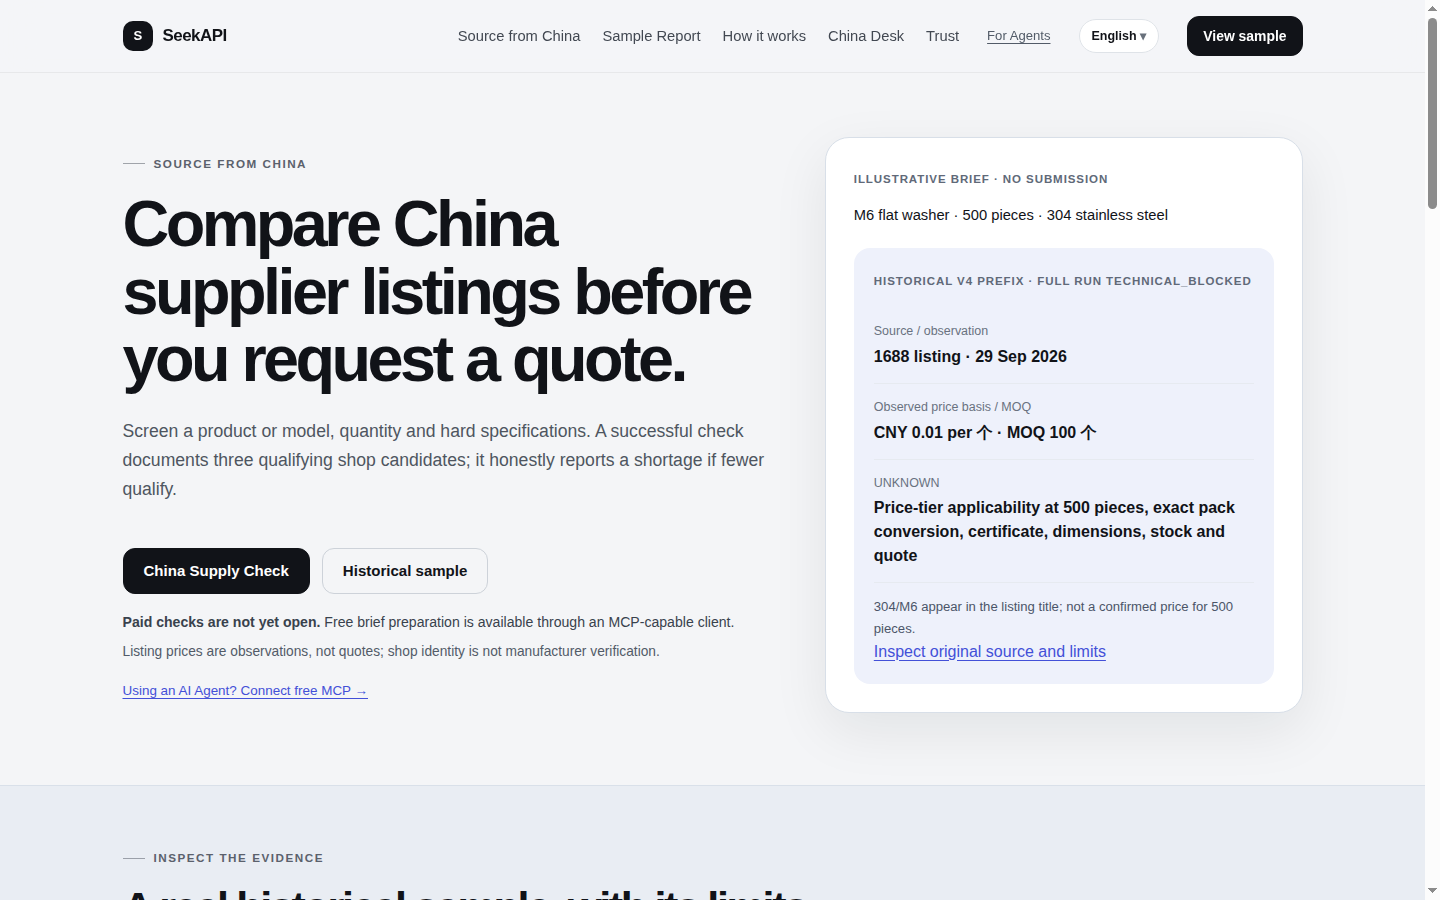
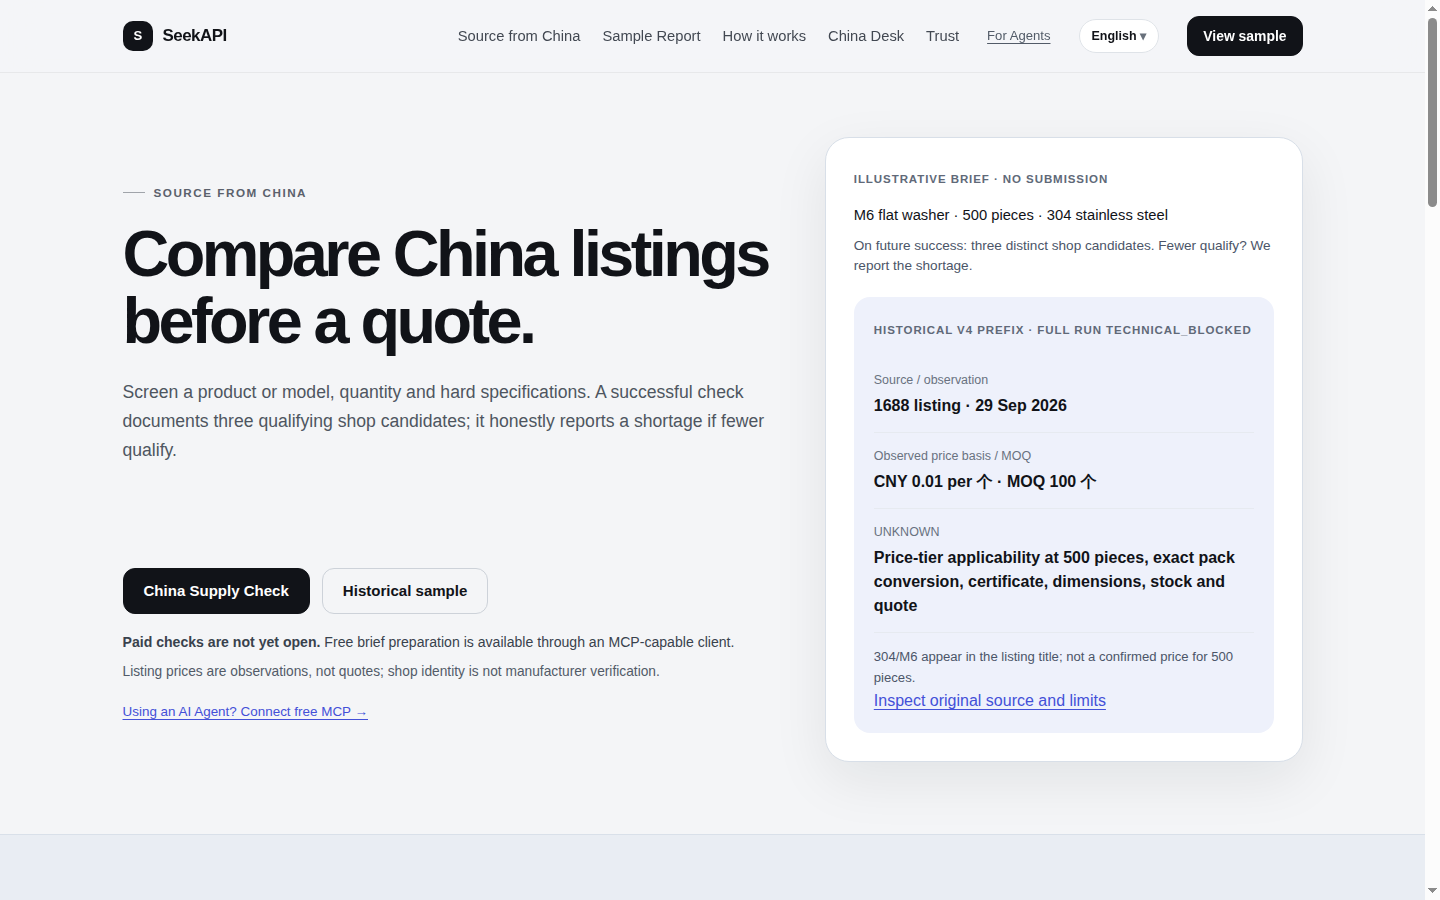
Restore candidate C success and shortage explanation in the first screen

diff --git a/app/growth.css b/app/growth.css
@@ -6,3 +6,5 @@
 @media(max-width:700px){.growth-variant-b,.growth-variant-c{padding-top:24px}.growth-variant-b .growth-hero-grid,.growth-variant-c .growth-hero-grid{row-gap:12px}.growth-variant-b h1,.growth-variant-c h1{font-size:2.05rem;line-height:1.08}.growth-variant-b .growth-lead,.growth-variant-c .growth-lead{display:none}.growth-variant-b .eyebrow,.growth-variant-c .eyebrow{margin-bottom:10px}.growth-variant-b .growth-brief,.growth-variant-c .growth-brief{padding:14px}.growth-variant-b .growth-inputs,.growth-variant-c .growth-inputs{margin-top:6px}.growth-variant-b .growth-inputs>div,.growth-variant-c .growth-inputs>div{padding:5px 0}.growth-variant-b .growth-inputs dt,.growth-variant-c .growth-inputs dt{font-size:.7rem}.growth-variant-b .growth-inputs dd,.growth-variant-c .growth-inputs dd{font-size:.85rem;margin-top:2px;line-height:1.4}.growth-variant-b .growth-result,.growth-variant-c .growth-result{padding:12px;margin-top:10px}.growth-variant-b .growth-result strong{font-size:1.1rem;margin-top:5px}.growth-variant-b .growth-result p,.growth-variant-c .growth-result p{font-size:.8rem;line-height:1.45;margin:7px 0}.growth-variant-b .growth-result .growth-small,.growth-variant-c .growth-result .growth-small{font-size:.75rem}.growth-variant-b .growth-label,.growth-variant-c .growth-label{font-size:.65rem;letter-spacing:.04em}.growth-variant-c .growth-example-request{font-size:.82rem;margin-top:6px}.growth-variant-c .growth-result .text-link{font-size:.78rem}.growth-variant-b .growth-availability,.growth-variant-c .growth-availability{margin-top:10px}.growth-variant-b .growth-limits,.growth-variant-c .growth-limits{margin-bottom:10px}.growth-variant-b .growth-agent-link,.growth-variant-c .growth-agent-link{font-size:.78rem}}
 
 @media(max-width:700px){.growth-variant-c{padding-top:12px}.growth-variant-c .growth-result{margin-top:6px}.growth-variant-c .growth-result p{margin:5px 0}}
+
+.growth-outcome{font-size:.85rem;line-height:1.45;margin:10px 0 0;color:#4b5568}@media(max-width:700px){.growth-variant-c h1{font-size:1.95rem}.growth-variant-c .growth-outcome{font-size:.75rem;line-height:1.4;margin:6px 0 0}}

diff --git a/components/growth-home.tsx b/components/growth-home.tsx
@@ -12,7 +12,7 @@ const variants = {
     lead: 'Start with a product or model, quantity and must-have specifications. On a successful future check: three distinct B2B shop candidates, price basis, MOQ/spec fit, source links, exclusions and UNKNOWNs.',
   },
   c: {
-    heading: 'Compare China supplier listings before you request a quote.',
+    heading: 'Compare China listings before a quote.',
     lead: 'Screen a product or model, quantity and hard specifications. A successful check documents three qualifying shop candidates; it honestly reports a shortage if fewer qualify.',
   },
 } satisfies Record<HomepageVariant, { heading: string; lead: string }>;
@@ -24,7 +24,7 @@ function BriefIllustration({ variant }: { variant: HomepageVariant }) {
       <div><dt>Product / model</dt><dd>M6 flat washer</dd></div>
       <div><dt>Quantity + unit</dt><dd>500 pieces</dd></div>
       <div><dt>Must-have specification</dt><dd>304 stainless steel</dd></div>
-    </dl> : <p className="growth-example-request">M6 flat washer · 500 pieces · 304 stainless steel</p>}
+    </dl> : <><p className="growth-example-request">M6 flat washer · 500 pieces · 304 stainless steel</p><p className="growth-outcome">On future success: three distinct shop candidates. Fewer qualify? We report the shortage.</p></>}
     {variant === 'c' ? <div className="growth-result">
       <span className="growth-label">Historical V4 prefix · full run TECHNICAL_BLOCKED</span>
       <dl className="growth-inputs">

diff --git a/app/(english)/page.tsx b/app/(english)/page.tsx
@@ -7,8 +7,8 @@ export const metadata = pageMetadata(
   '/',
 );
 
-// Candidate A is provisional in this implementation PR. The frozen ten-buyer
-// study must select a variant before this branch is released to production.
+// Candidate A is provisional. Owner preview acceptance must select a variant
+// before release (governance decision 5909261935 supersedes the buyer study).
 export default function HomePage() {
   return <GrowthHome variant="a" />;
 }

diff --git a/scripts/verify_growth_browser.py b/scripts/verify_growth_browser.py
@@ -1,5 +1,5 @@
 #!/usr/bin/env python3
-"""Verify actual first-screen candidate content; never substitutes for a buyer study."""
+"""Verify actual first-screen candidate content; never substitutes for owner acceptance."""
 import argparse
 import json
 import subprocess
@@ -32,6 +32,7 @@ expression = """JSON.stringify({
  briefFields:Array.from(document.querySelectorAll('.growth-inputs>div')).map(row=>({
   label:row.querySelector('dt').innerText,bottom:row.getBoundingClientRect().bottom})),
  resultText:document.querySelector('.growth-result').innerText,
+ outcome:(()=>{const e=document.querySelector('.growth-outcome');if(!e)return null;const r=e.getBoundingClientRect();return {text:e.innerText,visible:r.width>0&&r.height>0&&getComputedStyle(e).visibility!=='hidden',top:r.top,bottom:r.bottom}})(),
  paidNoteBottom:document.querySelector('.growth-availability').getBoundingClientRect().bottom,
  limitsBottom:document.querySelector('.growth-limits').getBoundingClientRect().bottom,
  errorOverlay:!!document.querySelector('[data-nextjs-dialog]')
@@ -56,6 +57,8 @@ try:
                 assert [field["label"] for field in data["briefFields"]] == ["Product / model", "Quantity + unit", "Must-have specification"], data
                 assert "Three distinct shop candidates" in data["resultText"] and "shortage" in data["resultText"], data
             if variant == "c":
+                assert data["outcome"]["visible"] and 0 <= data["outcome"]["top"] < data["outcome"]["bottom"] <= height, data
+                assert "three distinct shop candidates" in data["outcome"]["text"] and "shortage" in data["outcome"]["text"], data
                 for term in ["TECHNICAL_BLOCKED", "29 Sep 2026", "CNY 0.01 per 个", "MOQ 100 个", "UNKNOWN", "Price-tier applicability at 500 pieces", "exact pack conversion", "not a confirmed price for 500 pieces"]:
                     assert term.lower() in data["resultText"].lower(), (term, data)
             data.update(variant=variant, viewport=label, page_errors=run("errors"))
@@ -69,7 +72,8 @@ finally:
     "records": records,
     "mobile_menu_navigation": "Separately verified: keyboard menu activation and Source from China destination",
     "skip_link": "Separately verified: Tab focuses skip link, Enter reaches #main-content",
-    "buyer_study": "NOT_RUN; browser geometry is not buyer comprehension",
-    "review_repair": "5364732399: B/C content visible in first screen; C price-tier and pack uncertainty adjacent",
+    "buyer_study": "CANCELED_BY_OWNER; governance decision 5909261935",
+    "review_repair": "5364732399: B/C content visible in first screen; C price-tier and pack uncertainty adjacent; stopped re-review C success/shortage regression repaired",
+    "owner_acceptance": "PENDING; browser geometry is not owner candidate acceptance",
 }, indent=2) + "\n")
-print(json.dumps({"candidate_viewport_checks": len(records), "errors": [], "buyer_study": "NOT_RUN"}))
+print(json.dumps({"candidate_viewport_checks": len(records), "errors": [], "owner_acceptance": "PENDING"}))

diff --git a/scripts/verify_website_growth.py b/scripts/verify_website_growth.py
@@ -118,7 +118,7 @@ def verify(base, production=False):
         urls = [path(node.text) for node in ET.fromstring(sitemap).findall(".//{*}loc")]
         check(set(urls) == set(baseline["routes"]), f"sitemap: mismatch {len(urls)} URLs")
     check("https://api.seekapi.ai/mcp" in cache["/for-agents"].text, "Agent: endpoint missing")
-    return {"mode": "production-equivalent" if production else "preview", "base_url": base, "routes_verified": len(records), "locale_routes": sum(r["lang"] != "en" for r in records), "errors": errors, "records": records, "live_acceptance": False, "human_study": "NOT_RUN", "search_benchmark": "NOT_RUN"}
+    return {"mode": "production-equivalent" if production else "preview", "base_url": base, "routes_verified": len(records), "locale_routes": sum(r["lang"] != "en" for r in records), "errors": errors, "records": records, "live_acceptance": False, "human_study": "CANCELED_BY_OWNER; governance decision 5909261935", "owner_acceptance": "PENDING", "search_benchmark": "NOT_RUN"}
 
 if __name__ == "__main__":
     parser = argparse.ArgumentParser()

diff --git a/docs/website-growth/README.md b/docs/website-growth/README.md
@@ -46,3 +46,7 @@ The new source files add no dependency, tracking system, task database, dispatch
 - C now states that applicability of the price tier at 500 pieces and exact pack conversion are UNKNOWN, directly beside the historical listing excerpt. The excerpt says it is not a confirmed price for 500 pieces.
 - `scripts/verify_growth_browser.py` asserts the actual result and field bounds plus availability/limits, checks C's relevant uncertainty text, and re-records all six screenshots. It also tests B/C at 375×900 in addition to 375×812 and desktop 1440×900.
 - Reproduce with `python3 scripts/verify_growth_browser.py http://127.0.0.1:3221 --browser <agent-browser-path> --executable-path <chromium-path>` after a fresh preview build/start. The eight viewport cases and route evidence are refreshed for this repair.
+
+## C first-screen outcome regression repair
+
+Re-review session `20260930_182337_73cdd259` independently confirmed both original repairs, then stopped without verdict because the owner gate commit moved the head. It also identified C’s hidden mobile lead as removing the only first-screen success/shortage explanation. C now includes a compact, always-visible future-success/shortage statement beside its illustrative brief; its shorter heading preserves the evidence and limitations within the fixed screen. The browser verifier checks actual visibility and bounds for that statement at both mobile heights and desktop. Source comments and evidence status follow owner decision 5909261935; no owner candidate acceptance is claimed.
